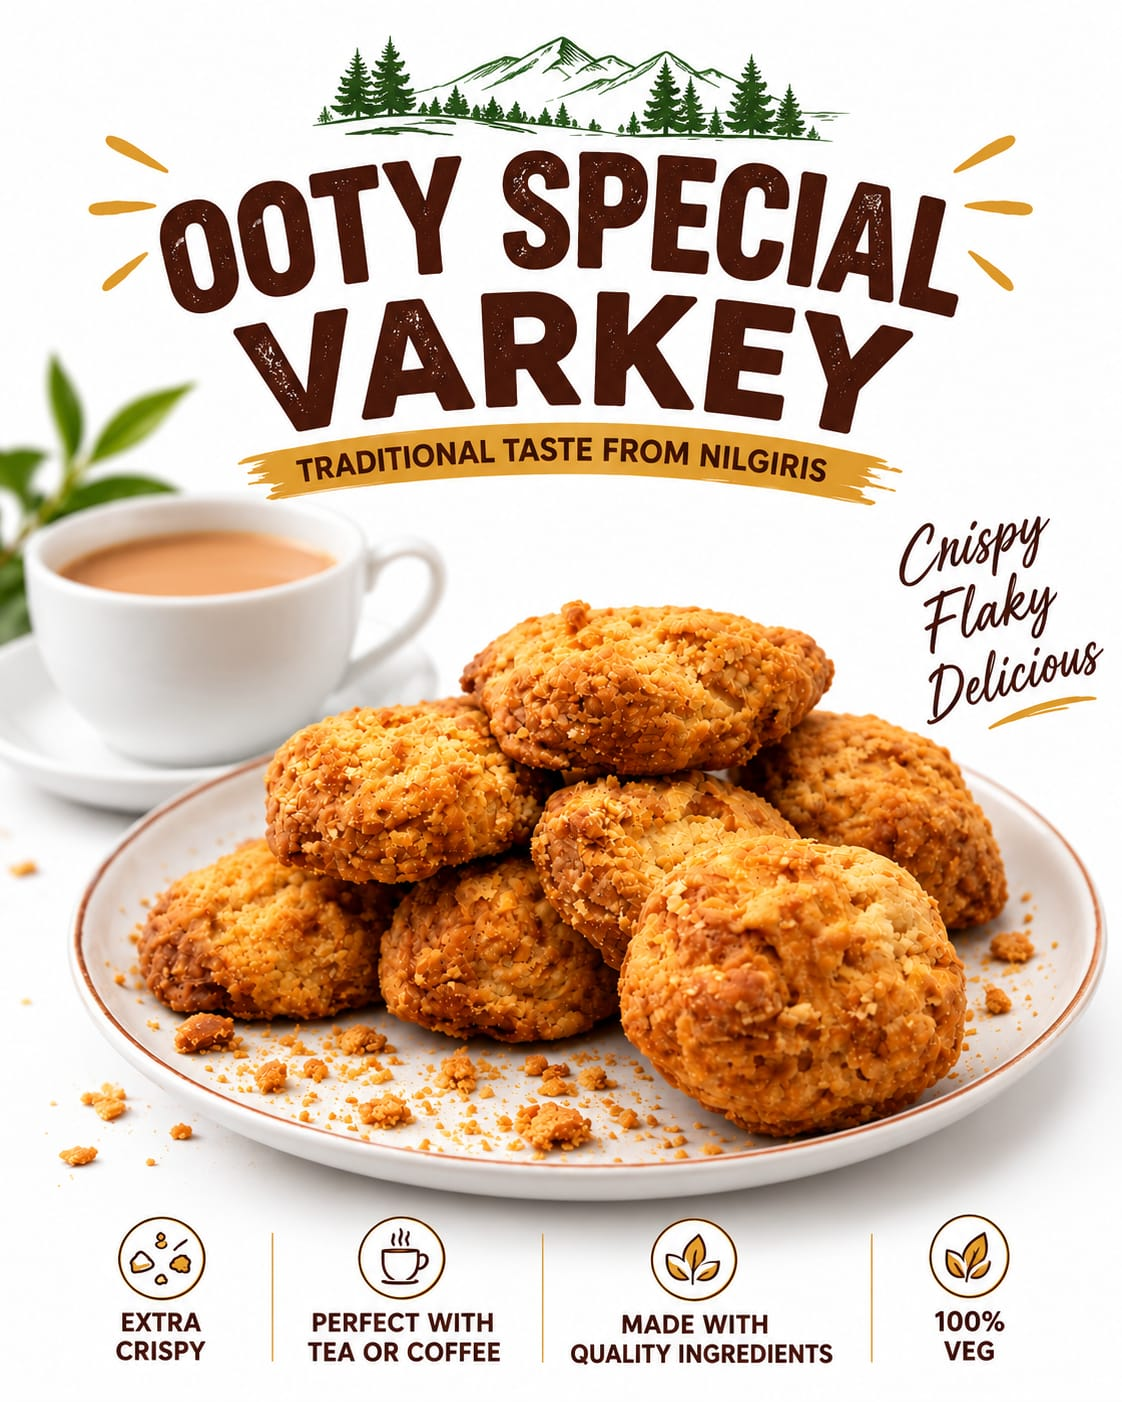
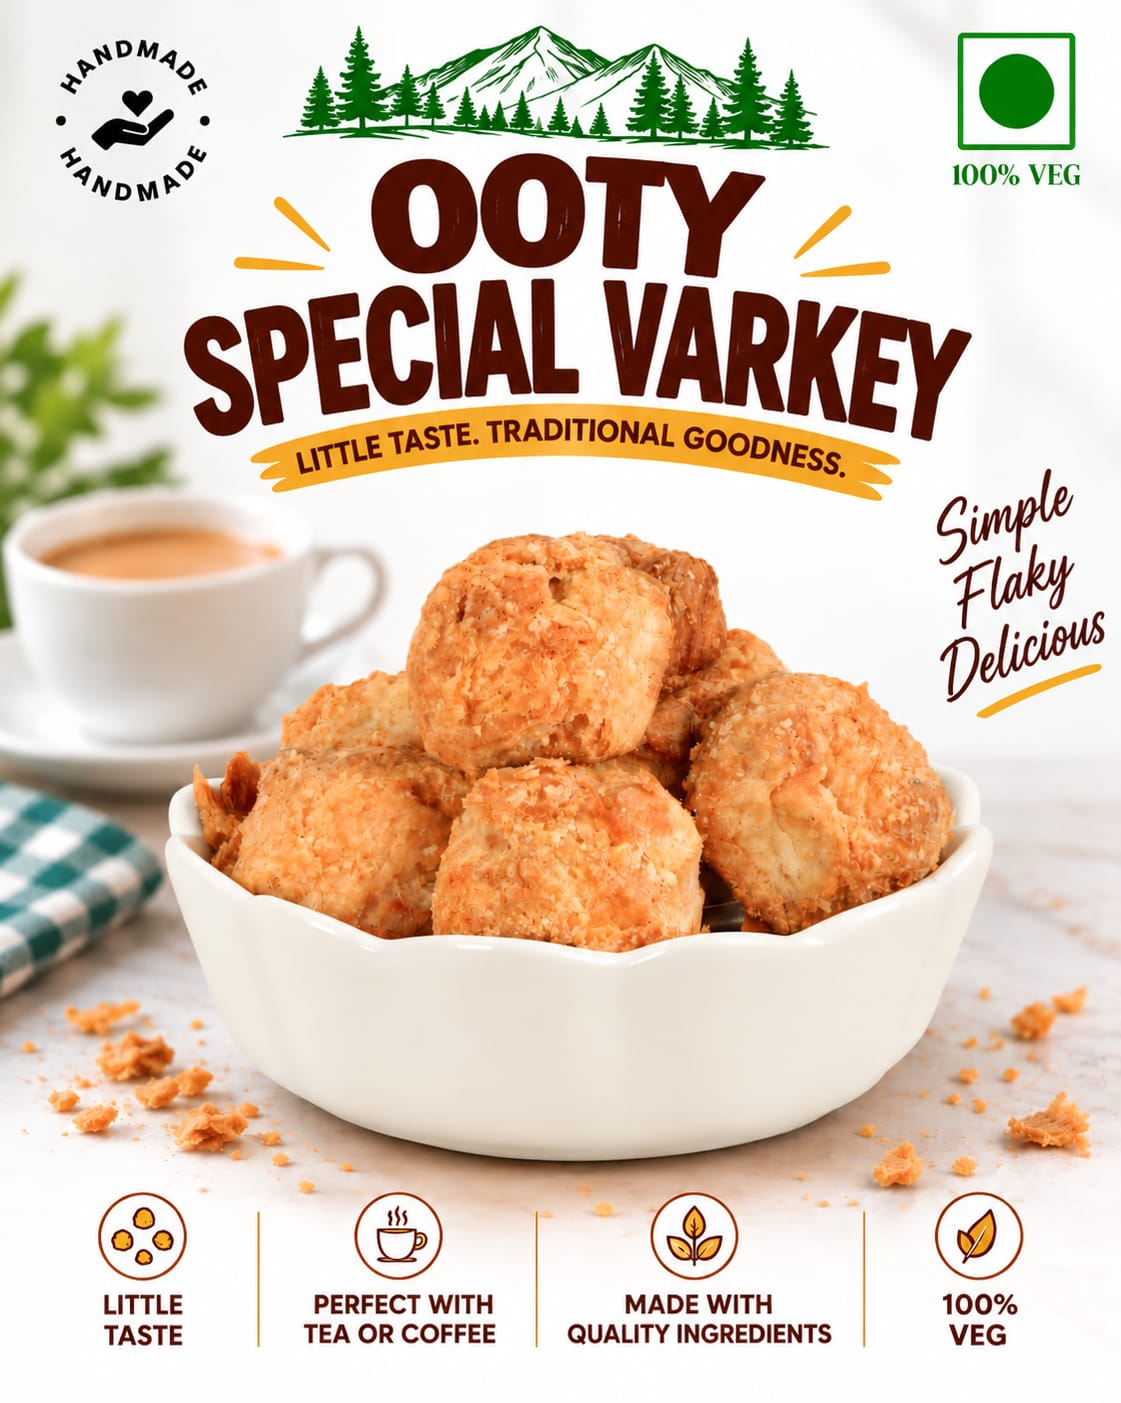
salt and sweet biscuit update

diff --git a/src/app/(site)/page.tsx b/src/app/(site)/page.tsx
@@ -167,11 +167,11 @@ export default async function HomePage() {
               >
                 <div
                   className="category-card_media"
-                  style={{ flex: "0 0 auto", aspectRatio: "16 / 11", maxHeight: "260px" }}
+                  style={{ flex: "0 0 auto", aspectRatio: "16 / 10", maxHeight: "290px" }}
                 >
                   <img
                     className="category-card_texture"
-                    src="/assets/images/Categories/varkey.png"
+                    src="/assets/our_range_varkey.jpeg"
                     alt=""
                     aria-hidden="true"
                     loading="lazy"
@@ -181,9 +181,12 @@ export default async function HomePage() {
                   01
                 </span>
                 <div className="category-card_body">
-                  <h3 className="category-card_title">Classic Ooty Varkey</h3>
+                  <h3 className="category-card_title">Premium Ooty Varkey</h3>
                   <p className="category-card_text">
-                    Its crunchy texture slowly softens when enjoyed with hot tea or coffee, making every bite a delightful experience. A perfect companion for your favourite tea-time moments!
+                    Experience the finest taste of Ooty with our Premium Special Varkey! Crafted with carefully selected ingredients in just the right proportions, it delivers an exceptional taste, premium quality and an irresistible crunch.
+                  </p>
+                  <p className="category-card_text">
+                    Rich in flavour and wonderfully crunchy, every bite is a treat. Enjoy it as a snack or pair it with your favourite tea or coffee.
                   </p>
                   <span className="category-card_link">Shop varkey</span>
                 </div>
@@ -197,10 +200,10 @@ export default async function HomePage() {
                 <span className="category-card_index" aria-hidden="true">
                   02
                 </span>
-                <div className="category-card_media">
-                  <img
-                    className="category-card_texture"
-                    src="/assets/images/Categories/salt_biscuit.png"
+                  <div className="category-card_media category-card_media--biscuit">
+                    <img
+                      className="category-card_texture"
+                      src="/assets/images/products/Salt%20Biscuit/02_Salt.jpeg"
                     alt=""
                     aria-hidden="true"
                     loading="lazy"
@@ -225,10 +228,10 @@ export default async function HomePage() {
                 <span className="category-card_index" aria-hidden="true">
                   03
                 </span>
-                <div className="category-card_media">
-                  <img
-                    className="category-card_texture"
-                    src="/assets/images/Categories/sweet_biscuit.png"
+                  <div className="category-card_media category-card_media--biscuit">
+                    <img
+                      className="category-card_texture"
+                      src="/assets/images/products/Sweet%20Biscuit/02_Sweet.jpeg"
                     alt=""
                     aria-hidden="true"
                     loading="lazy"

diff --git a/src/components/poster-rail.tsx b/src/components/poster-rail.tsx
@@ -12,7 +12,8 @@ type PosterStyle = CSSProperties & {
 
 const POSTER_BY_SLUG: Record<string, string> = {
   "special-varkey": "/assets/images/product_poster/Special_Varkey.jpeg",
-  "regular-varkey": "/assets/images/product_poster/Regular_Varkey.jpeg",
+  "premium-special-varkey": "/assets/images/product_poster/Premium_Varkey.jpeg",
+  "regular-varkey": "/assets/images/product_poster/Classic_Varkey.jpeg",
   "crispy-varkey": "/assets/images/product_poster/Crispy_Varkey.jpeg",
   "mini-varkey": "/assets/images/product_poster/Mini_Varkey.jpeg",
   "varkey-flakes": "/assets/images/product_poster/Varkey_Flakes.jpeg",

diff --git a/src/app/styles/style.css b/src/app/styles/style.css
@@ -1198,6 +1198,10 @@ p {
   justify-content: center;
 }
 
+.category-card_media--biscuit {
+  min-height: 220px;
+}
+
 .category-card--light .category-card_texture {
   opacity: 1;
 }

diff --git a/src/app/styles/responsive.css b/src/app/styles/responsive.css
@@ -32,6 +32,10 @@
   flex: 0 0 165px;
 }
 
+.category-card_media--biscuit {
+  min-height: 190px;
+}
+
 .category-card--wide {
   grid-column: auto;
   flex-direction: column;
